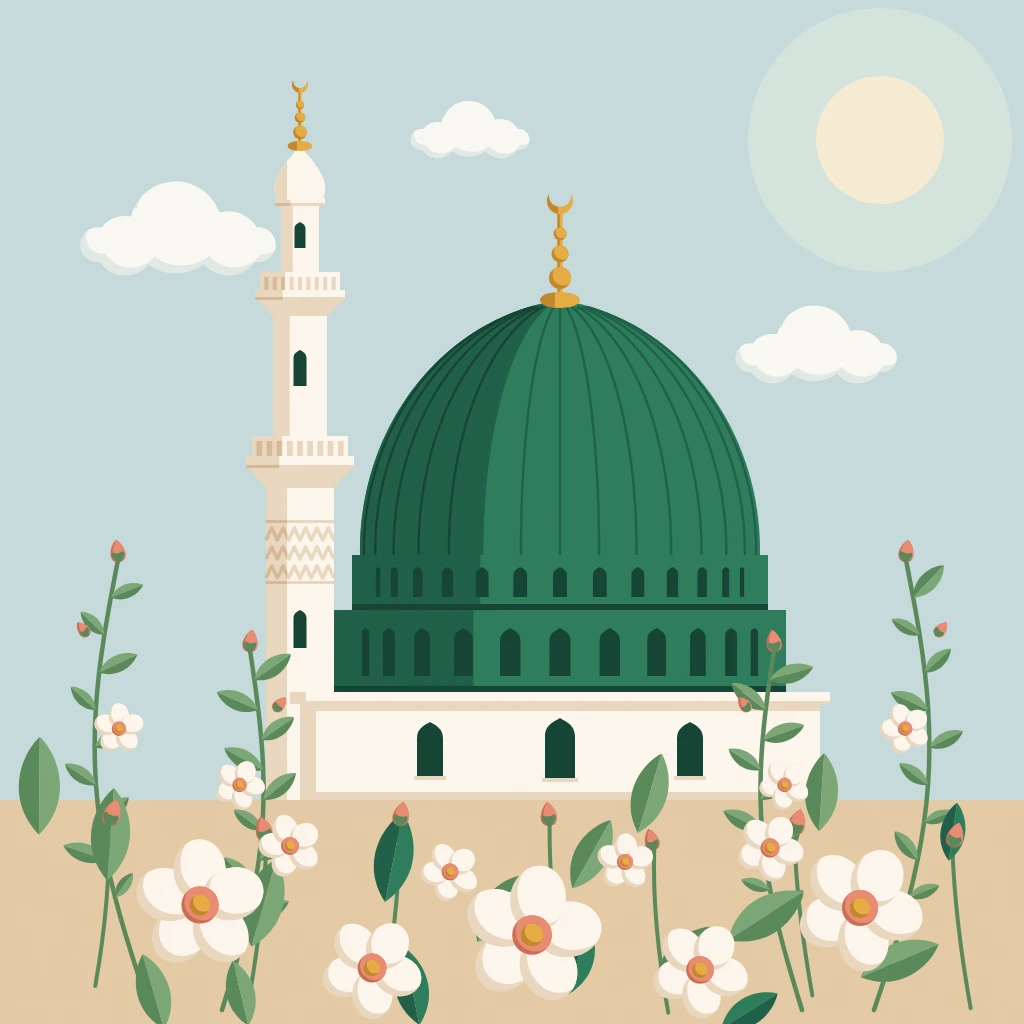
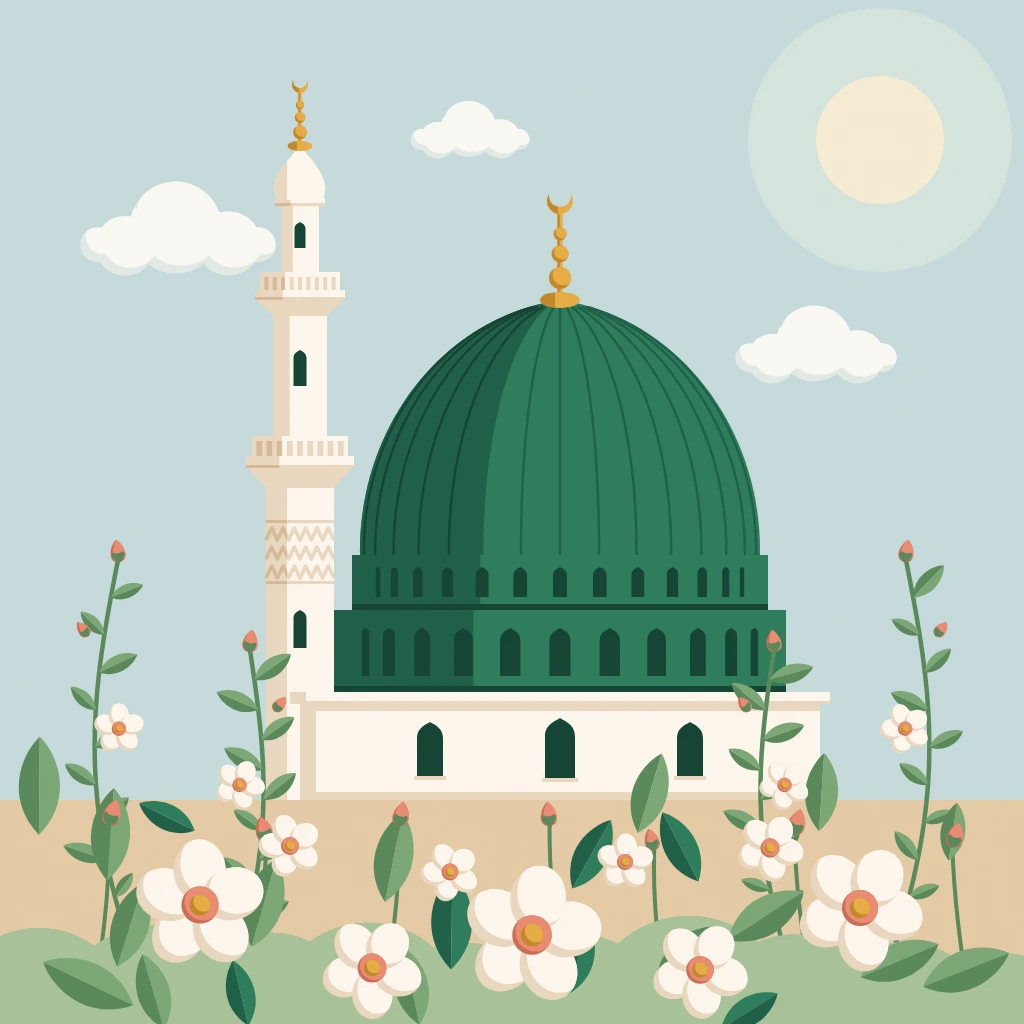
Atölye: süren stil çalışmalarının ara kaydı
Claude-Session: https://claude.ai/code/session_01Q8CfoBGMPN7gfLWQYpMs1J

diff --git a/atolye/stiller/S-022-duz-illustrasyon/ornek.html b/atolye/stiller/S-022-duz-illustrasyon/ornek.html
@@ -29,6 +29,7 @@
     yaprak: '#7DA877', yaprakG: '#5C8A5C',
     mercan: '#EC8D73', mercanG: '#CD6E57',
     zemin: '#E6CCA6',
+    cali: '#A9C49A', caliG: '#93B386',
   };
 
   // ---------------------------------------------------------------- SVG yardımcıları
@@ -198,6 +199,17 @@
   }
   for (const s of B.saplar) out.push(`<path d="${S.yol(s)}" fill="none" stroke="${P.yaprakG}" stroke-width="4.5" stroke-linecap="round" stroke-linejoin="round"/>`);
 
+  // önde alçak, yuvarlak bir çalı kütlesi: çiçek tarhının zemini (tek ton gölgeli düz biçim)
+  {
+    const r2 = S.rng(22);
+    const parca = [];
+    for (let x = -60; x <= 1090; x += 92 + r2() * 30) parca.push(S.daireYolu(x, 1018 + r2() * 26, 82 + r2() * 34));
+    const id = 'k' + sayac++;
+    defs.push(`<clipPath id="${id}">${parca.map((d) => `<path d="${d}"/>`).join('')}</clipPath>`);
+    for (const d of parca) dol(d, P.caliG);
+    grup(id, () => { for (const d of parca) dol(d, P.cali, `transform="translate(9,-9)"`); });
+  }
+
   function yaprak(y, koyu) {
     const ACIK = koyu ? P.yesil : P.yaprak, GOLGE = koyu ? P.yesilG : P.yaprakG;
     const Lu = y.uzunluk, W = Lu * y.genislik;
@@ -219,7 +231,7 @@
   B.yapraklar.forEach((y, i) => {
     if (i < 36) return yaprak(y, false);
     const [cx, cy] = merkezi(y);
-    if (secili.some(([x, yy]) => Math.hypot(x - cx, yy - cy) < 78)) return;
+    if (secili.some(([x, yy]) => Math.hypot(x - cx, yy - cy) < 56)) return;
     secili.push([cx, cy]);
     // her üç yapraktan biri kubbenin yeşilinde: derinlik ve palet birliği
     yaprak({ ...y, uzunluk: y.uzunluk * 1.12 }, secili.length % 3 === 0);
